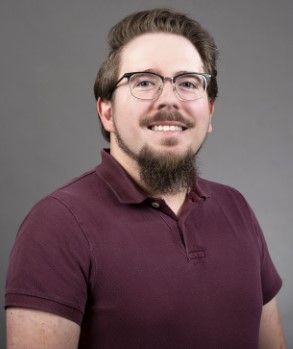
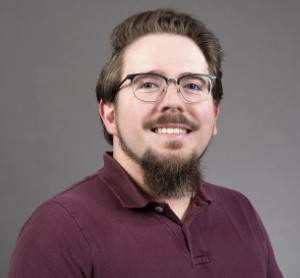
new pic again

diff --git a/content/authors/admin/_index.md b/content/authors/admin/_index.md
@@ -1,7 +1,7 @@
 ---
 title: Ryan J. Hubbard
 role: Assistant Professor
-avatar_filename: avatar.png
+avatar_filename: avatar.jpg
 bio: Assistant Professor at UAlbany
 interests:
   - Cognitive Neuroscience
